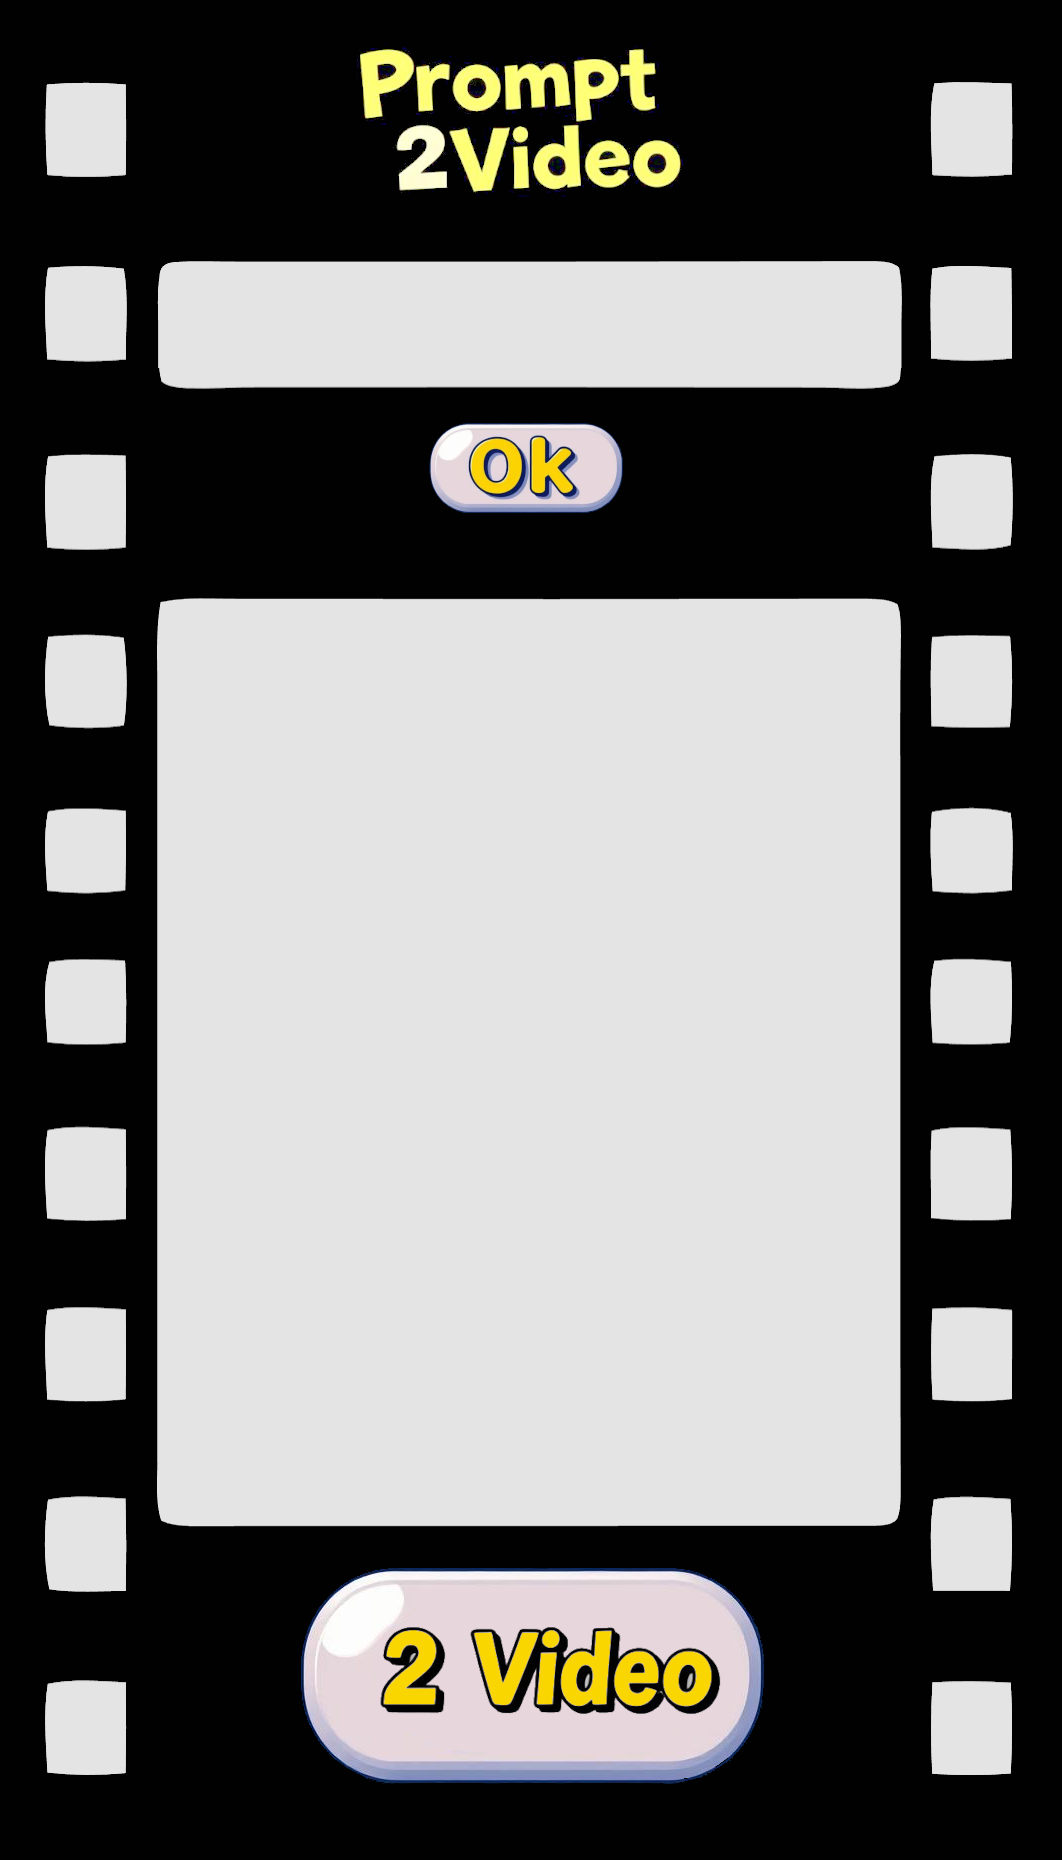
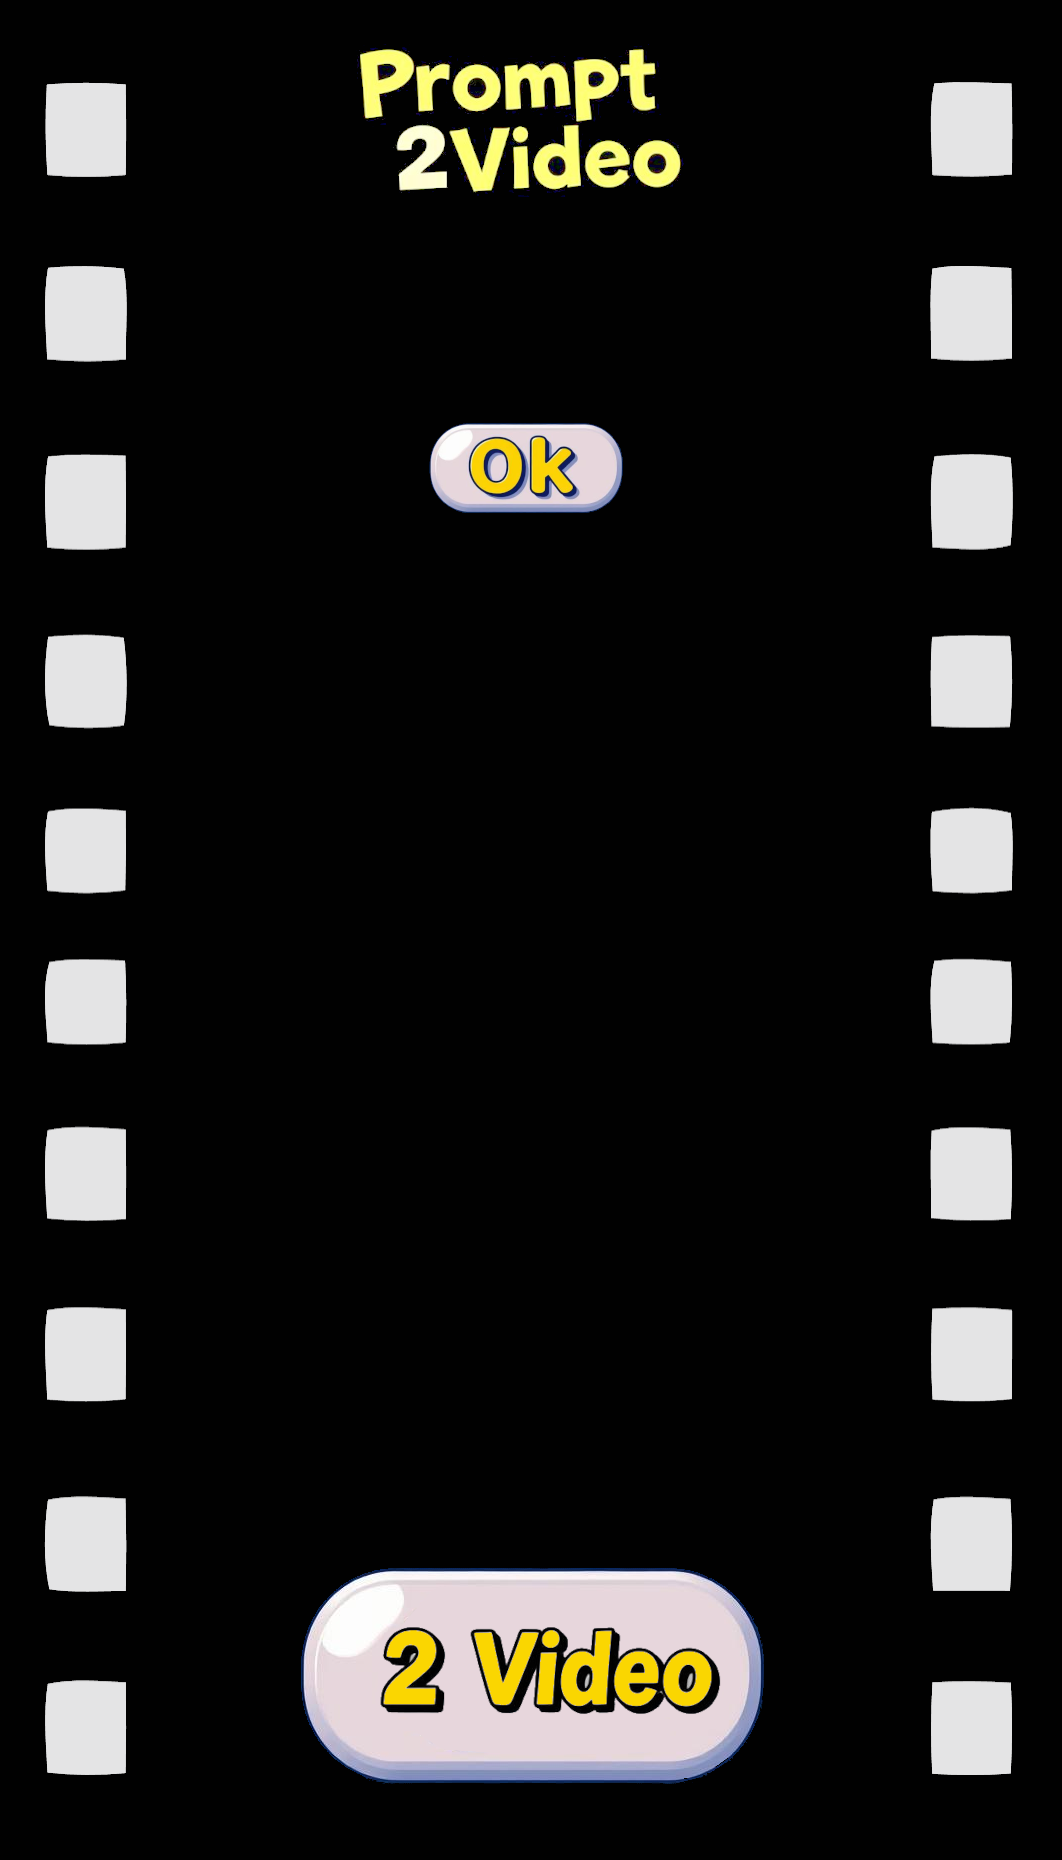
quickfix

diff --git a/src/index.html b/src/index.html
@@ -7,9 +7,7 @@
   <link rel="stylesheet" href="app/view/css/styles.css" />
 </head>
 <body>
-  <div id="spinner" class="spinner-overlay" style="display:none;">
-    <img src="app/view/images/spinner1.gif" alt="Loading..." />
-  </div>
+
 
   <div class="container">
     <img class="main-image" src="app/view/images/main.png" alt="Main Image" height="50"/>
@@ -19,6 +17,10 @@
       <div id="clickableAreaA" tabindex="0" role="button" aria-pressed="false"></div>
       <div id="clickableAreaB" tabindex="0" role="button" aria-pressed="false"></div>
     </div>
+  </div>
+
+    <div id="spinner" class="spinner-overlay" style="display:none;">
+    <img src="app/view/images/spinner1.gif" alt="Loading..." />
   </div>
 
   <script src="app/view/scripts/interactiveOverlay.js"></script>

diff --git a/src/app/view/css/styles.css b/src/app/view/css/styles.css
@@ -2,7 +2,7 @@ body, html {
   margin: 0;
   padding: 0;
   height: 100%;
-  background: #f0f0f0;
+  background: #000;
   font-family: Arial, sans-serif;
 }
 
@@ -19,6 +19,8 @@ body, html {
   width: 480px;
   height: auto;
   margin-left: 150px;
+    border: 1px solid;
+    border-color: white;
 }
 
 
@@ -122,16 +124,18 @@ body, html {
   left: 0;
   width: 100%;
   height: 100%;
-  background: rgba(255, 255, 255, 0.8);
+  background: rgba(0, 0, 0, 0.7);
   display: flex;
   justify-content: center;
   align-items: center;
   z-index: 9999;
+  transform: translateY(-600px); /* Moves spinner 600px up */
 }
 
+
 .spinner-overlay img {
-  width: 80px;
-  height: 80px;
+  width: 220px;
+  height: 124px;
 }
 
 .disabled {
